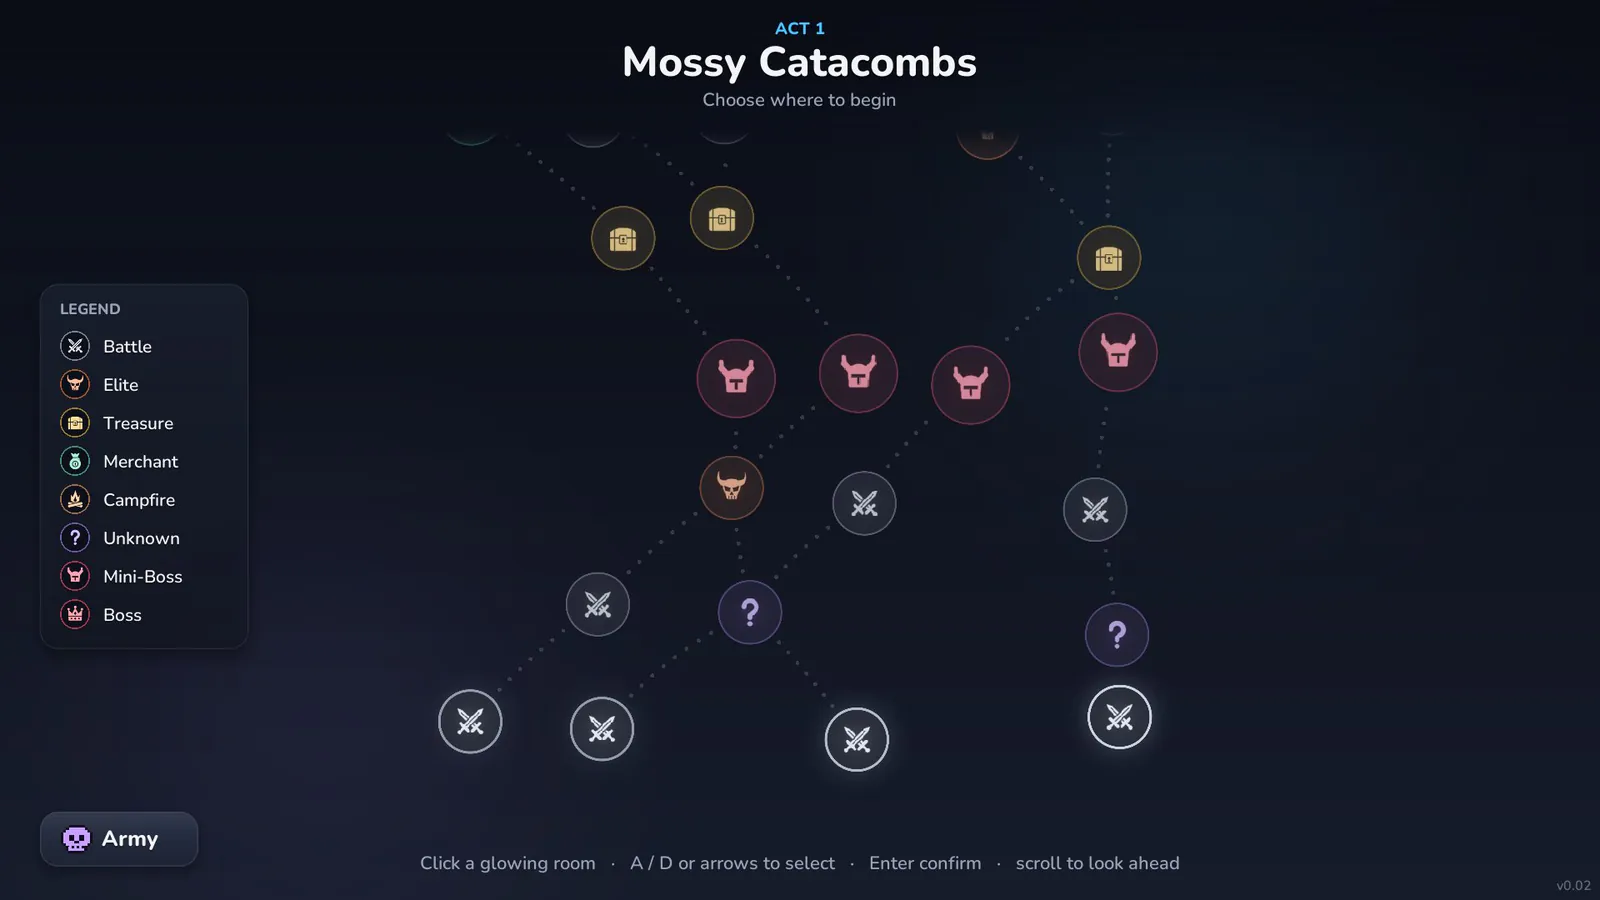
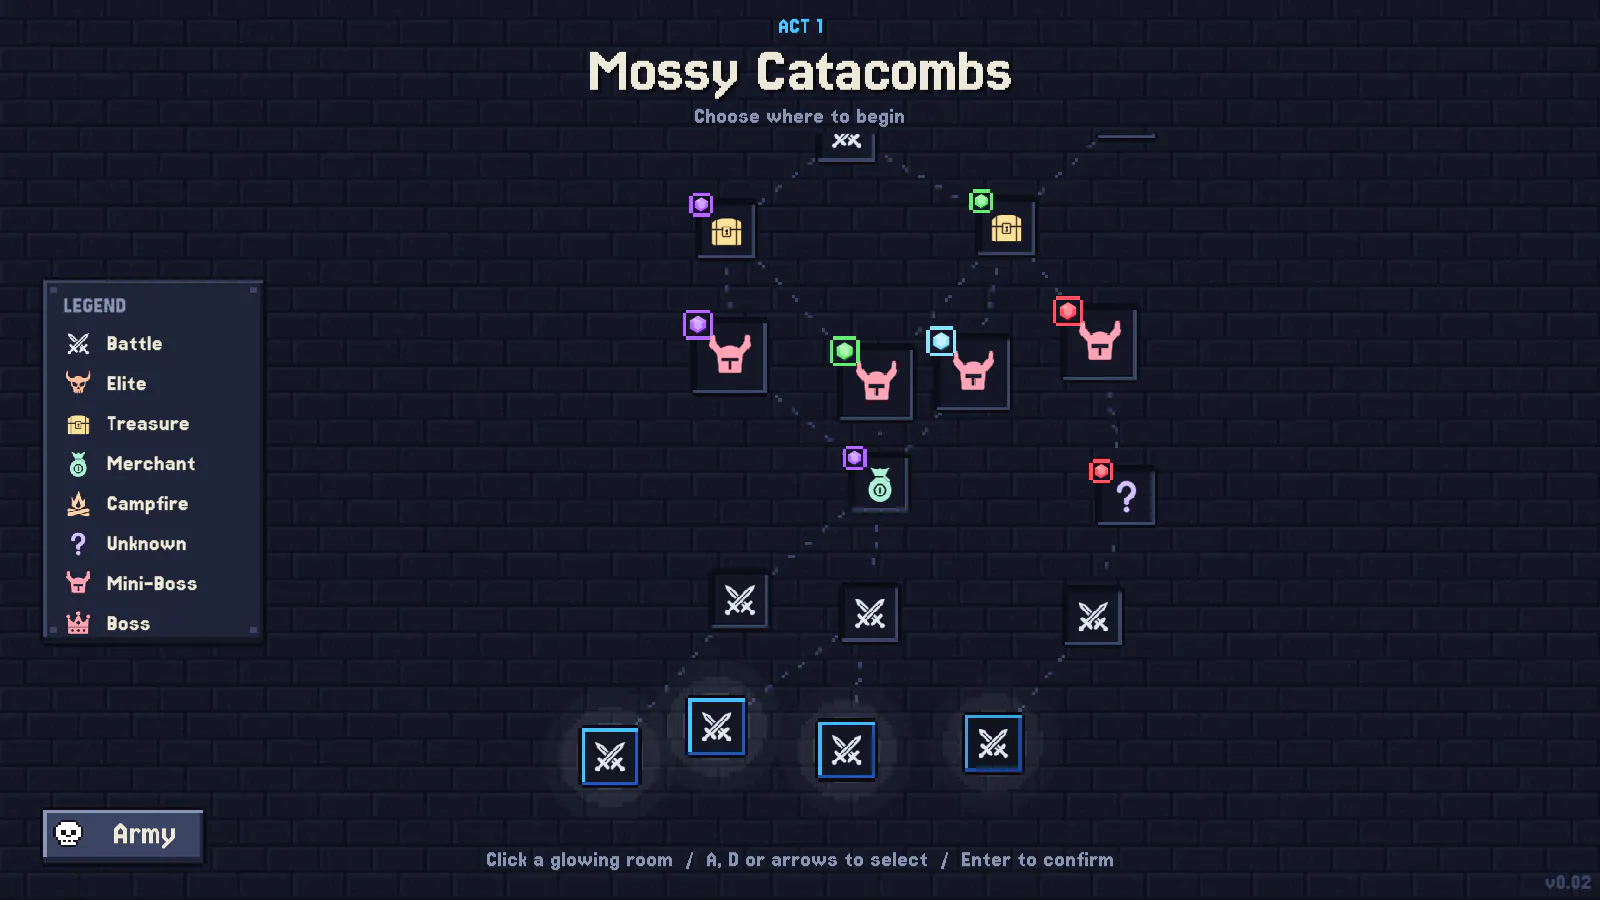
feat(shardbound): ekran görüntülerini piksel art sürümüyle yenile
Eski görseller piksel arta geçişten önceki arayüzü gösteriyordu. Dokuz
kare oyunun kendi galeri aracıyla güncel sürümden yeniden çekildi; adı
değişen yetenek (Ruh Uyandırma) ve yeni çatışma karesi için alt metinler
güncellendi.

diff --git a/lib/content.tr.ts b/lib/content.tr.ts
@@ -140,10 +140,10 @@ export const divisions: Division[] = [
         cover: "/media/shardbound/cover.webp",
         media: [
           { src: "/media/shardbound/01.webp", alt: "Kamp: ateşin başında kahramanını seç", wide: true },
-          { src: "/media/shardbound/02.webp", alt: "Kahraman paneli: Nekromansör ve Arise yeteneği", wide: true },
+          { src: "/media/shardbound/02.webp", alt: "Kahraman paneli: Nekromansör ve Ruh Uyandırma yeteneği", wide: true },
           { src: "/media/shardbound/03.webp", alt: "1. bölüm haritası: Yosunlu Katakomplar, yolunu seç", wide: true },
           { src: "/media/shardbound/04.webp", alt: "Nekromansör dört iskeletle odaya giriyor", wide: true },
-          { src: "/media/shardbound/05.webp", alt: "Çatışma: gölge ordusu goblinlere ve yaban domuzuna karşı", wide: true },
+          { src: "/media/shardbound/05.webp", alt: "Çatışma: gölge ordusu düşmanların üstüne çullanıyor", wide: true },
           { src: "/media/shardbound/06.webp", alt: "Kutsama seçimi: yol için bir lütuf", wide: true },
           { src: "/media/shardbound/07.webp", alt: "Gölge Ordusu: seviye, ekipman ve diziliş emirleri", wide: true },
           { src: "/media/shardbound/08.webp", alt: "Demirhane: kalıcı geliştirmeler ve silah planları", wide: true },

diff --git a/lib/content.en.ts b/lib/content.en.ts
@@ -139,10 +139,10 @@ export const divisions: Division[] = [
         cover: "/media/shardbound/cover.webp",
         media: [
           { src: "/media/shardbound/01.webp", alt: "Camp: choose your hero around the fire", wide: true },
-          { src: "/media/shardbound/02.webp", alt: "Hero panel: the Necromancer and the Arise skill", wide: true },
+          { src: "/media/shardbound/02.webp", alt: "Hero panel: the Necromancer and the Soul Awakening skill", wide: true },
           { src: "/media/shardbound/03.webp", alt: "Act 1 map: Mossy Catacombs, choose your path", wide: true },
           { src: "/media/shardbound/04.webp", alt: "The Necromancer enters a room with four skeletons", wide: true },
-          { src: "/media/shardbound/05.webp", alt: "Fight: the shadow army against goblins and a boar", wide: true },
+          { src: "/media/shardbound/05.webp", alt: "Fight: the shadow army swarms the enemy", wide: true },
           { src: "/media/shardbound/06.webp", alt: "Choose a blessing: one boon for the road ahead", wide: true },
           { src: "/media/shardbound/07.webp", alt: "Shadow Army: levels, gear and formation orders", wide: true },
           { src: "/media/shardbound/08.webp", alt: "The Forge: permanent upgrades and weapon blueprints", wide: true },
